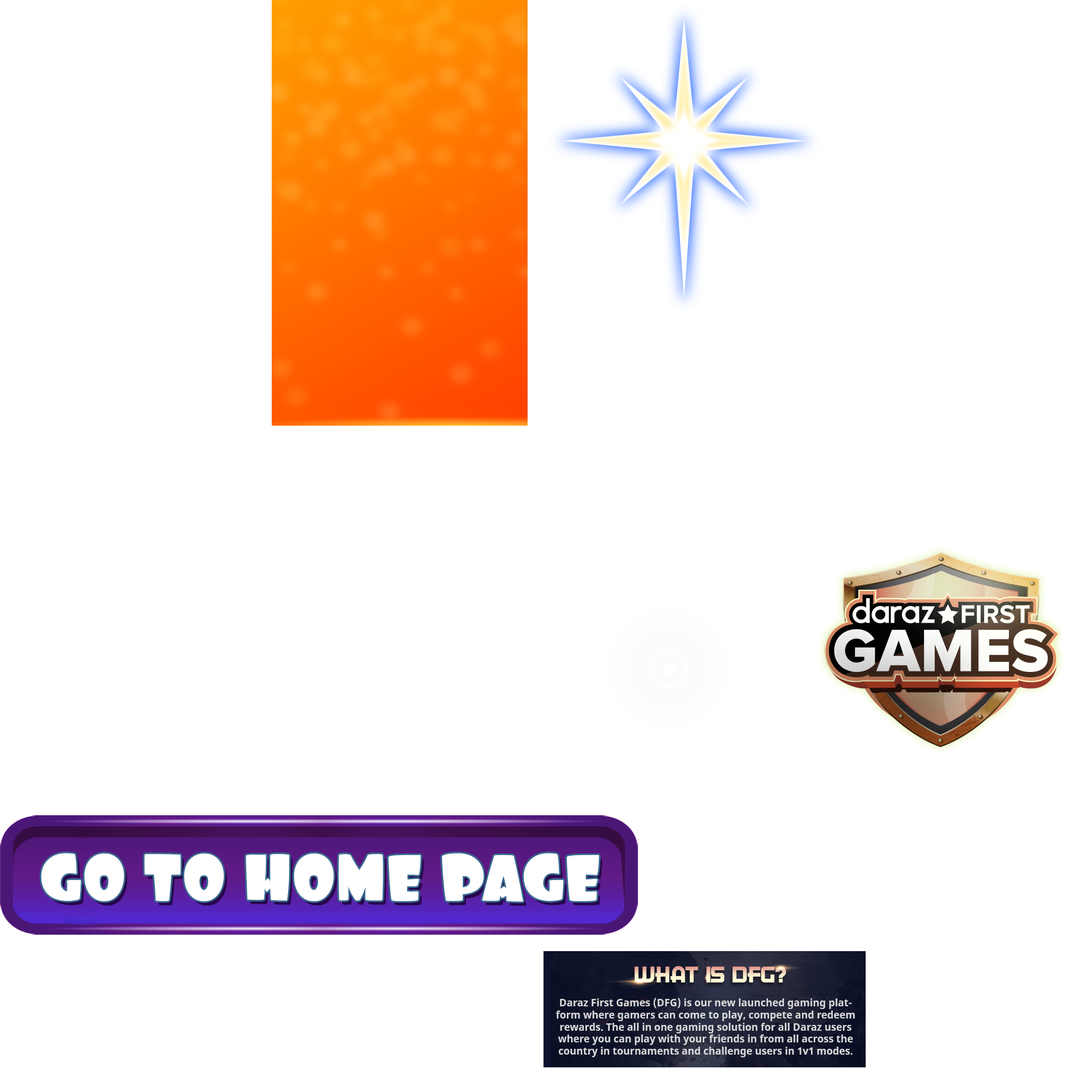
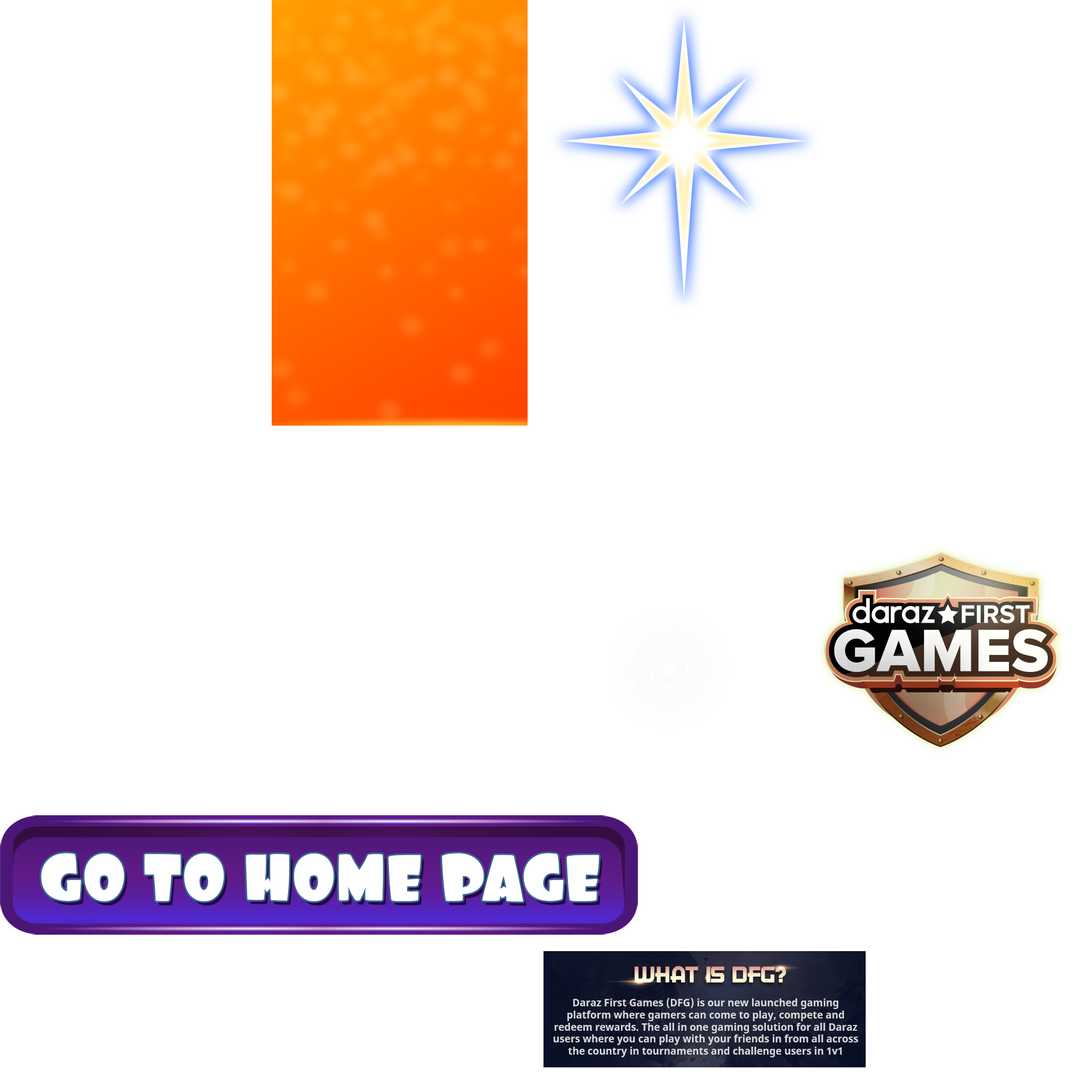
Add files via upload

Changed region(s): [[0.5, 0.9062, 0.7812, 0.9688]]

diff --git a/data.js b/data.js
@@ -1,1 +1,1 @@
-{"project":["DFG","GameLayout",[[0,false,true,true,true,true,true,true,true,false],[1,true,false,false,false,false,false,false,false,false],[2,false,false,false,false,false,false,false,false,false],[3,true,false,false,false,false,false,false,false,false],[4,true,false,false,false,false,false,false,false,false],[5,false,true,true,true,true,true,true,true,true],[6,false,true,true,true,true,true,true,true,false],[7,false,true,true,true,false,false,false,false,false],[8,true,false,false,false,false,false,false,false,false],[10,false,true,true,false,false,true,true,true,false]],[["QuestionText",0,false,[],0,0,null,null,[],false,false,4518277622100844,[],null,0],["AnswerChoice1",0,false,[],0,0,null,null,[],false,false,8097939386274228,[],null,1],["AnswerChoice2",0,false,[],0,0,null,null,[],false,false,1284034875746508,[],null,2],["AnswerChoice3",0,false,[],0,0,null,null,[],false,false,5650092959726911,[],null,3],["AnswerChoice4",0,false,[],0,0,null,null,[],false,false,2928925355067956,[],null,4],["AJAX",1,false,[],0,0,null,null,[],false,false,3142276251277157,[],null,5,[]],["QuestionsArray",2,false,[],0,0,null,null,[],true,false,9516239658900232,[],null,6],["Touch",3,false,[],0,0,null,null,[],false,false,2503946099207293,[],null,7,[true]],["FeedbackText",0,false,[],0,0,null,null,[],false,false,7569139299136867,[],null,8],["ScoreText",0,false,[],0,0,null,null,[],false,false,6712561442429151,[],null,9],["TitleText",0,false,[],0,0,null,null,[],false,false,3720140241284106,[],null,10],["PlayButton",0,false,[],0,0,null,null,[],false,false,6287041695498634,[],null,11],["WebStorage",4,false,[],0,0,null,null,[],false,false,6898698917139665,[],null,12,[]],["QuitButton",0,false,[],0,0,null,null,[],false,false,9188488704761638,[],null,13],["RestartButton",0,false,[],0,0,null,null,[],false,false,4572325326948228,[],null,14],["TimerText",0,false,[],0,0,null,null,[],false,false,7539547688433571,[],null,15],["Used_Array",2,false,[],0,0,null,null,[],true,false,6122280981655879,[],null,16],["TiledBackground",5,false,[],0,0,["images/tiledbackground-sheet0.png",243203,0,0,0,750,520],null,[],false,false,1595894532411715,[],null,17],["HomeButton",0,false,[],0,0,null,null,[],false,false,7584440032732816,[],null,18],["AboutText",0,false,[],0,0,null,null,[],false,false,843728309340976,[],null,19],["AboutButton",0,false,[],0,0,null,null,[],false,false,2097394952559154,[],null,20],["Sprite11",6,false,[],0,0,null,[["Animation 1",5,false,1,0,false,896215700482606,[["images/shared-0-sheet1.png",1007919,513,1,480,800,1,0.5,0.5,[],[-0.5,-0.5,0,-0.5,0.49750000000000005,-0.5,0.49750000000000005,0,0.49750000000000005,0.498,0,0.498,-0.5,0.498,-0.5,0],0]]]],[],false,false,438298318963117,[],null,21],["play_again",6,false,[],0,0,null,[["Animation 1",5,false,1,0,false,555261687588107,[["images/shared-0-sheet4.png",216551,0,0,2398,908,1,0.5,0.5,[],[-0.4692715704536453,-0.3861878241231249,0,-0.375,0.4529850499548804,-0.3884064120615625,0.4519143262968248,-0.005506607929515406,0.43296866069449047,0.37845243406011253,-0.0004594878448089257,0.3821693944125356,-0.43646326784117895,0.35636187475603653,-0.4535598838483454,0.04746835443038],0]]]],[],false,false,954949145761662,[],null,22],["Sprite18",6,false,[],0,0,null,[["Animation 1",5,false,1,0,false,854930910042661,[["images/shared-0-sheet5.png",191106,0,0,2398,907,1,0.5,0.5,[],[-0.4680177029244801,-0.41560551099590126,-0.014595496246872341,-0.3969465648854962,0.46380468266566266,-0.3914338857234234,0.45424488485027825,-0.002545931979430538,0.4329637096774194,0.40839694656488545,-0.026670831203422063,0.38507115985086315,-0.44556451612903225,0.351149246319971,-0.45871223331270683,-0.005512679162072764],0]]]],[],false,false,813556513466683,[],null,23],["Sprite12",6,false,[],0,0,null,[["Animation 1",5,false,1,0,false,529983111501422,[["images/shared-0-sheet0.png",780203,0,0,1755,2762,1,0.5,0.5,[],[-0.3740740740740741,-0.41998551774076753,0,-0.499637943519189,0.3769230769230769,-0.4221578566256336,0.48233618233618236,0,0.4150997150997151,0.44605358435916,0,0.4800868935553947,-0.41225071225071225,0.443881245474294,-0.48518518518518516,0],0]]]],[],false,false,999843354679462,[],null,24],["NameInput",7,false,[],0,0,null,null,[],false,false,202878234040816,[],null,25],["EmailInput",7,false,[],0,0,null,null,[],false,false,613355963009687,[],null,26],["PhoneInput",7,false,[],0,0,null,null,[],false,false,292376280471300,[],null,27],["NameText",0,false,[],0,0,null,null,[],false,false,210124808294686,[],null,28],["EmailText",0,false,[],0,0,null,null,[],false,false,874808008014424,[],null,29],["Text2",0,false,[],0,0,null,null,[],false,false,792127707754524,[],null,30],["Confirmation",0,false,[],0,0,null,null,[],false,false,631951479112777,[],null,31],["Display",0,false,[],0,0,null,null,[],false,false,871159654206974,[],null,32],["Discore",0,false,[],0,0,null,null,[],false,false,918485593256501,[],null,33],["final",0,false,[],0,0,null,null,[],false,false,316678347694548,[],null,34],["replay",6,false,[],0,0,null,[["Default",0,false,1,0,false,100170254521513,[["images/shared-0-sheet2.png",52168,1,129,112,114,1,0.5,0.5,[],[-0.392857,-0.398113,0,-0.5,0.38888900000000004,-0.39434,0.49603200000000003,-0.0018870000000000275,0.36904800000000004,0.37547200000000003,0,0.458491,-0.373016,0.37924500000000005,-0.5,-0.0018870000000000275],0],["images/shared-0-sheet2.png",52168,129,129,112,114,0,0.5,0.503448,[],[-0.392857,-0.401561,0,-0.503448,0.38888900000000004,-0.39778800000000003,0.49603200000000003,-0.005335000000000034,0.36904800000000004,0.372024,0,0.496552,-0.373016,0.37579700000000005,-0.5,-0.005335000000000034],0]]]],[],false,false,490992913071519,[],null,35],["home",6,false,[],0,0,null,[["Default",0,false,1,0,false,128290549251425,[["images/shared-0-sheet2.png",52168,385,1,112,114,1,0.503356,0.503268,[],[-0.39094,-0.39617700000000006,-0.0033560000000000256,-0.49300780000000005,0.380313,-0.39245300000000005,0.48601799999999995,-0.005130000000000023,0.364653,0.3710199999999999,-0.0033560000000000256,0.45295299999999994,-0.37136500000000006,0.3710199999999999,-0.49664459000000005,-0.005130000000000023],0],["images/shared-0-sheet2.png",52168,385,129,112,114,1,0.496403,0.510345,[],[-0.395683,-0.40156100000000006,0,-0.49967490000000003,0.39168700000000006,-0.39778800000000003,0.4996,-0.00533500000000009,0.37569900000000006,0.37579699999999994,0,0.458815,-0.3757,0.37579699999999994,-0.496403,-0.00533500000000009],0]]]],[],false,false,641156735966612,[],null,36],["submit_button",6,false,[],0,0,null,[["Animation 1",5,false,1,0,false,977084801593165,[["images/shared-0-sheet6.png",137908,0,0,2398,675,1,0.5,0.5,[],[-0.44901969578519296,-0.3825703117236619,0.0013958391251968072,-0.37724694011416127,0.4467417914571751,-0.3649311967857597,0.4539877337036752,0.022303671863006524,0.42552216261972386,0.3961479613545822,-0.03143963682399609,0.4027617590849416,-0.4492566483980335,0.3564581297683892,-0.45370370370370366,-0.06329113924050628],0]]]],[],false,false,923482690419155,[],null,37],["order_id",7,false,[],0,0,null,null,[],false,false,621718125092766,[],null,38],["Logo",6,false,[],0,0,null,[["Default",5,false,1,0,false,667837162231201,[["images/shared-0-sheet2.png",52168,1,1,265,114,1,0.5,0.5,[],[],0]]]],[],false,false,613208379886605,[],null,39],["Button",6,false,[],0,0,null,[["Default",5,false,1,0,false,309847669610005,[["images/shared-0-sheet1.png",1007919,1,1537,1200,223,1,0.5,0.5,[],[],0]]]],[],false,false,218252877803666,[],null,40],["Browser",8,false,[],0,0,null,null,[],false,false,900297979952433,[],null,41,[]],["Logo2",6,false,[],1,0,null,[["Default",3,true,1,0,false,954243533207160,[["images/shared-0-sheet1.png",1007919,1537,1025,475,398,1,0.5,0.5,[],[],0]]]],[["Flash",9,672900166276547,42]],false,false,532227498758063,[],null,43],["ShadowLight",10,false,[],0,0,null,null,[],false,false,115499102406973,[],null,44],["ShadowLight2",10,false,[],0,0,null,null,[],false,false,482143284130522,[],null,45],["ShadowLight3",10,false,[],0,0,null,null,[],false,false,578552697768383,[],null,46],["Spot3",6,false,[],2,0,null,[["Default",5,false,1,0,false,305511464621645,[["images/shared-0-sheet3.png",947,1,1,31,30,1,0.516129,0.5,[],[],0]]]],[["Sine",11,171735893617645,47],["Sine2",11,222285552518088,48]],false,false,320591578144610,[],null,49],["Spot1",6,false,[],2,0,null,[["Default",5,false,1,0,false,192811710234832,[["images/shared-0-sheet3.png",947,1,1,31,30,1,0.516129,0.5,[],[],0]]]],[["Sine",11,539097621597316,47],["Sine2",11,207955956235774,48]],false,false,877752808051358,[],null,50],["Spot2",6,false,[],2,0,null,[["Default",5,false,1,0,false,782940110396212,[["images/shared-0-sheet3.png",947,1,33,31,30,1,0.516129,0.5,[],[],0]]]],[["Sine",11,292785587036113,47],["Sine2",11,931114232550601,48]],false,false,891217899348177,[],null,51],["Mask1",6,false,[],0,0,null,[["Default",5,false,1,0,false,760411287364323,[["images/shared-0-sheet1.png",1007919,1025,1025,470,470,1,0.5,0.5,[],[-0.170213,-0.170213,0,-0.24042599999999997,0.17021299999999995,-0.170213,0.24042600000000003,0,0.17021299999999995,0.17021299999999995,0,0.24042600000000003,-0.170213,0.17021299999999995,-0.24042599999999997,0],0]]]],[],false,false,996551815526696,[],null,52],["Mask3",6,false,[],0,1,null,[["Default",5,false,1,0,false,951577848853897,[["images/shared-0-sheet1.png",1007919,1025,1025,470,470,1,0.5,0.5,[],[-0.170213,-0.170213,0,-0.24042599999999997,0.17021299999999995,-0.170213,0.24042600000000003,0,0.17021299999999995,0.17021299999999995,0,0.24042600000000003,-0.170213,0.17021299999999995,-0.24042599999999997,0],0]]]],[],false,false,141386997881912,[["tint","Tint"]],null,53],["Mask2",6,false,[],0,1,null,[["Default",5,false,1,0,false,549154511438920,[["images/shared-0-sheet1.png",1007919,1025,1025,470,470,1,0.5,0.5,[],[-0.170213,-0.170213,0,-0.24042599999999997,0.17021299999999995,-0.170213,0.24042600000000003,0,0.17021299999999995,0.17021299999999995,0,0.24042600000000003,-0.170213,0.17021299999999995,-0.24042599999999997,0],0]]]],[],false,false,448714077544375,[["tint","Tint"]],null,54],["twinkleMask",6,false,[],0,0,null,[["Default",5,false,1,0,false,188542440915037,[["images/shared-0-sheet2.png",52168,257,129,100,100,1,0.5,0.5,[],[],0]]]],[],false,false,880765207028125,[],null,55],["shinytransparentshiningstar",6,false,[],1,0,null,[["Default",5,false,1,0,false,329809314739827,[["images/shared-0-sheet1.png",1007919,1025,1,528,594,1,0.5,0.5,[],[],0]]]],[["Fade",12,950049830604098,56]],false,false,187136045300956,[],null,57],["WhatIsDFG_D_M",6,false,[],0,0,null,[["Default",5,false,1,0,false,160496360266753,[["images/shared-0-sheet1.png",1007919,1025,1793,605,217,1,0.5,0.5,[],[],0]]]],[],false,false,938239157078957,[],null,58]],[],[["GameLayout",750,520,false,"Game Event Sheet",2665726338741146,[["Background",0,1052050580886238,true,[255,255,255],true,1,1,1,false,false,1,0,0,[[[-1,0,0,750,520,0,0,1,0,0,0,0,[]],17,21,[],[],[true,0,0,0,1,1,0]],[[358,120,0,64.31197054099768,65.28081807291916,0,0,1,0.5,0.5,0,0,[[[0.9294117647058824,0.8235294117647058,0.5882352941176471]]]],51,28,[],[],[true,"Default",0,true]],[[1612.0500187485563,168.70981965150492,0,16.188807492322432,18.06408407537533,0,0,1,0.5,0.5,0,0,[]],53,29,[],[[0,0,1,true,true]],[true,"Default",0,true]],[[373,392,0,605,217,0,0,1,0.5,0.5,0,0,[]],54,12,[],[],[true,"Default",0,true]]],[],0],["Game",1,3067122856562082,true,[255,255,255],true,1,1,1,false,false,1,0,0,[[[-538,798,0,445.39521132865616,128.21856339859684,0,0,1,0,0,0,0,[]],0,0,[],[],["Q1",false,"Tahoma",24,0,false,false,[1,1,1],1,1,0,true,0]],[[-290,723,0,441,100,0,0,1,0,0,0,0,[]],1,1,[],[],["A1",false,"Tahoma",16,0,false,false,[0.25098039215686274,0,0.5019607843137255],0,0,0,true,0]],[[-475,832,0,441,100,0,0,1,0,0,0,0,[]],2,2,[],[],["A2",false,"Tahoma",16,0,false,false,[0.25098039215686274,0,0.5019607843137255],0,0,0,true,0]],[[-194,1132,0,441,100,0,0,1,0,0,0,0,[]],3,3,[],[],["A3",false,"Tahoma",16,0,false,false,[0.25098039215686274,0,0.5019607843137255],0,0,0,true,0]],[[-1507,965,0,1000,100,0,0,1,0,0,0,0,[]],4,4,[],[],["A4",false,"Arial",35.25,0,false,false,[0,0,0],0,0,0,true,0]],[[-712,719,0,409.86583170593764,68.94939224959698,0,0,1,0,0,0,0,[]],8,9,[],[],["Feedback Text",false,"Arial",35.25,0,false,false,[0,0,0],1,1,0,false,0]],[[-518,77,0,351,100,0,0,1,0,0,0,0,[]],9,10,[],[],["Score: 0",false,"Arial",36,0,true,false,[0,0,0],0,0,0,true,0]],[[-435,-31,0,370,120,0,0,1,0,0,0,0,[]],15,19,[],[],["20",false,"Tahoma",36,0,true,false,[1,1,1],0,0,0,true,0]],[[376,129,0,173.47815280547223,145.27875524890024,0,0,1,0.5,0.5,0,0,[]],42,16,[],[[]],[true,"Default",0,true]],[[989,270,0,50,50,0,0,1,0.5,0.5,0,0,[]],43,17,[],[],[0,15,[0,0,0],0,""]],[[1011,183,0,50,50,0,0,1,0.5,0.5,0,0,[]],44,18,[],[],[0,15,[0,0,0],0,""]],[[1047,122,0,50,50,0,0,1,0.5,0.5,0,0,[]],45,22,[],[],[0,15,[0,0,0],0,""]],[[-5,-422,0,31,30,0,0,1,0.516129,0.5,0,0,[]],47,23,[],[[0,0,3,0,0,0,80,0,true],[1,0,4,0,0,0,80,0,true]],[true,"Default",0,true]],[[376,120,0,79,63,0,0,1,0.516129,0.5,0,0,[]],48,24,[],[[1,0,3.3,0,0,0,40,0,true],[0,0,4.1,0,0,0,40,0,true]],[true,"Default",0,true]],[[2272,300,0,31,30,0,0,1,0.516129,0.5,0,0,[]],46,25,[],[[0,0,3.3,0,0,0,80,0,true],[1,0,3.1,0,0,0,35,0,true]],[true,"Default",0,true]],[[-379,614,0,193,196,0,0,1,0.5,0.5,0,0,[]],49,26,[],[],[true,"Default",0,true]],[[2206,-275,0,56,50,0,0,1,0.5,0.5,0,0,[[[0,1,1]]]],50,27,[],[],[true,"Default",0,true]]],[],0]],[[null,6,6,[],[],[10,1,1]],[null,16,20,[],[],[10,1,1]]],[]]],[["Game Event Sheet",[[0,0,false,null,151648127791761,1,[],[]],[0,0,false,null,622679585886181,2,[[-1,13,null,0,false,false,false,439689378041659,null]],[[43,14,null,891925269083813,0,null,[[0,[20,47,15,false,null]],[0,[20,47,16,false,null]]]],[49,17,null,559066881158424,0,null,[[4,47],[7,[1,0]]]],[44,14,null,432819138162029,0,null,[[0,[20,48,15,false,null]],[0,[20,48,16,false,null]]]],[51,17,null,152096671197441,0,null,[[4,48],[7,[1,0]]]],[45,14,null,271017365489539,0,null,[[0,[20,46,15,false,null]],[0,[20,46,16,false,null]]]],[50,17,null,158245552025527,0,null,[[4,46],[7,[1,0]]]]]],[0,0,false,null,107204066862315,3,[[-1,18,null,0,false,false,false,786817800923660,null,[[0,[1,0.2]]]]],[[-1,19,null,615028643097771,0,null,[[4,53],[5,[1,0]],[0,[19,20,[[1,0],[19,21]]]],[0,[19,20,[[1,0],[19,22]]]]]]]]]]],[],"media/",false,750,520,4,true,true,true,"1.0.0.0",true,false,3,0,30,false,true,1,true,false,[],"icons/",[],true,"3blxdu3b2a86u","fonts/",[],"high-performance",[],"standard","vsync",""]}
+{"project":["DFG","GameLayout",[[0,false,true,true,true,true,true,true,true,false],[1,true,false,false,false,false,false,false,false,false],[2,false,false,false,false,false,false,false,false,false],[3,true,false,false,false,false,false,false,false,false],[4,true,false,false,false,false,false,false,false,false],[5,false,true,true,true,true,true,true,true,true],[6,false,true,true,true,true,true,true,true,false],[7,false,true,true,true,false,false,false,false,false],[8,true,false,false,false,false,false,false,false,false],[10,false,true,true,false,false,true,true,true,false]],[["QuestionText",0,false,[],0,0,null,null,[],false,false,4518277622100844,[],null,0],["AnswerChoice1",0,false,[],0,0,null,null,[],false,false,8097939386274228,[],null,1],["AnswerChoice2",0,false,[],0,0,null,null,[],false,false,1284034875746508,[],null,2],["AnswerChoice3",0,false,[],0,0,null,null,[],false,false,5650092959726911,[],null,3],["AnswerChoice4",0,false,[],0,0,null,null,[],false,false,2928925355067956,[],null,4],["AJAX",1,false,[],0,0,null,null,[],false,false,3142276251277157,[],null,5,[]],["QuestionsArray",2,false,[],0,0,null,null,[],true,false,9516239658900232,[],null,6],["Touch",3,false,[],0,0,null,null,[],false,false,2503946099207293,[],null,7,[true]],["FeedbackText",0,false,[],0,0,null,null,[],false,false,7569139299136867,[],null,8],["ScoreText",0,false,[],0,0,null,null,[],false,false,6712561442429151,[],null,9],["TitleText",0,false,[],0,0,null,null,[],false,false,3720140241284106,[],null,10],["PlayButton",0,false,[],0,0,null,null,[],false,false,6287041695498634,[],null,11],["WebStorage",4,false,[],0,0,null,null,[],false,false,6898698917139665,[],null,12,[]],["QuitButton",0,false,[],0,0,null,null,[],false,false,9188488704761638,[],null,13],["RestartButton",0,false,[],0,0,null,null,[],false,false,4572325326948228,[],null,14],["TimerText",0,false,[],0,0,null,null,[],false,false,7539547688433571,[],null,15],["Used_Array",2,false,[],0,0,null,null,[],true,false,6122280981655879,[],null,16],["TiledBackground",5,false,[],0,0,["images/tiledbackground-sheet0.png",311319,0,0,0,750,510],null,[],false,false,1595894532411715,[],null,17],["HomeButton",0,false,[],0,0,null,null,[],false,false,7584440032732816,[],null,18],["AboutText",0,false,[],0,0,null,null,[],false,false,843728309340976,[],null,19],["AboutButton",0,false,[],0,0,null,null,[],false,false,2097394952559154,[],null,20],["Sprite11",6,false,[],0,0,null,[["Animation 1",5,false,1,0,false,896215700482606,[["images/shared-0-sheet1.png",1006916,513,1,480,800,1,0.5,0.5,[],[-0.5,-0.5,0,-0.5,0.49750000000000005,-0.5,0.49750000000000005,0,0.49750000000000005,0.498,0,0.498,-0.5,0.498,-0.5,0],0]]]],[],false,false,438298318963117,[],null,21],["play_again",6,false,[],0,0,null,[["Animation 1",5,false,1,0,false,555261687588107,[["images/shared-0-sheet4.png",216551,0,0,2398,908,1,0.5,0.5,[],[-0.4692715704536453,-0.3861878241231249,0,-0.375,0.4529850499548804,-0.3884064120615625,0.4519143262968248,-0.005506607929515406,0.43296866069449047,0.37845243406011253,-0.0004594878448089257,0.3821693944125356,-0.43646326784117895,0.35636187475603653,-0.4535598838483454,0.04746835443038],0]]]],[],false,false,954949145761662,[],null,22],["Sprite18",6,false,[],0,0,null,[["Animation 1",5,false,1,0,false,854930910042661,[["images/shared-0-sheet5.png",191106,0,0,2398,907,1,0.5,0.5,[],[-0.4680177029244801,-0.41560551099590126,-0.014595496246872341,-0.3969465648854962,0.46380468266566266,-0.3914338857234234,0.45424488485027825,-0.002545931979430538,0.4329637096774194,0.40839694656488545,-0.026670831203422063,0.38507115985086315,-0.44556451612903225,0.351149246319971,-0.45871223331270683,-0.005512679162072764],0]]]],[],false,false,813556513466683,[],null,23],["Sprite12",6,false,[],0,0,null,[["Animation 1",5,false,1,0,false,529983111501422,[["images/shared-0-sheet0.png",780203,0,0,1755,2762,1,0.5,0.5,[],[-0.3740740740740741,-0.41998551774076753,0,-0.499637943519189,0.3769230769230769,-0.4221578566256336,0.48233618233618236,0,0.4150997150997151,0.44605358435916,0,0.4800868935553947,-0.41225071225071225,0.443881245474294,-0.48518518518518516,0],0]]]],[],false,false,999843354679462,[],null,24],["NameInput",7,false,[],0,0,null,null,[],false,false,202878234040816,[],null,25],["EmailInput",7,false,[],0,0,null,null,[],false,false,613355963009687,[],null,26],["PhoneInput",7,false,[],0,0,null,null,[],false,false,292376280471300,[],null,27],["NameText",0,false,[],0,0,null,null,[],false,false,210124808294686,[],null,28],["EmailText",0,false,[],0,0,null,null,[],false,false,874808008014424,[],null,29],["Text2",0,false,[],0,0,null,null,[],false,false,792127707754524,[],null,30],["Confirmation",0,false,[],0,0,null,null,[],false,false,631951479112777,[],null,31],["Display",0,false,[],0,0,null,null,[],false,false,871159654206974,[],null,32],["Discore",0,false,[],0,0,null,null,[],false,false,918485593256501,[],null,33],["final",0,false,[],0,0,null,null,[],false,false,316678347694548,[],null,34],["replay",6,false,[],0,0,null,[["Default",0,false,1,0,false,100170254521513,[["images/shared-0-sheet2.png",52339,129,129,112,114,1,0.5,0.5,[],[-0.392857,-0.398113,0,-0.5,0.38888900000000004,-0.39434,0.49603200000000003,-0.0018870000000000275,0.36904800000000004,0.37547200000000003,0,0.458491,-0.373016,0.37924500000000005,-0.5,-0.0018870000000000275],0],["images/shared-0-sheet2.png",52339,1,129,112,114,0,0.5,0.503448,[],[-0.392857,-0.401561,0,-0.503448,0.38888900000000004,-0.39778800000000003,0.49603200000000003,-0.005335000000000034,0.36904800000000004,0.372024,0,0.496552,-0.373016,0.37579700000000005,-0.5,-0.005335000000000034],0]]]],[],false,false,490992913071519,[],null,35],["home",6,false,[],0,0,null,[["Default",0,false,1,0,false,128290549251425,[["images/shared-0-sheet2.png",52339,385,129,112,114,1,0.503356,0.503268,[],[-0.39094,-0.39617700000000006,-0.0033560000000000256,-0.49300780000000005,0.380313,-0.39245300000000005,0.48601799999999995,-0.005130000000000023,0.364653,0.3710199999999999,-0.0033560000000000256,0.45295299999999994,-0.37136500000000006,0.3710199999999999,-0.49664459000000005,-0.005130000000000023],0],["images/shared-0-sheet2.png",52339,385,1,112,114,1,0.496403,0.510345,[],[-0.395683,-0.40156100000000006,0,-0.49967490000000003,0.39168700000000006,-0.39778800000000003,0.4996,-0.00533500000000009,0.37569900000000006,0.37579699999999994,0,0.458815,-0.3757,0.37579699999999994,-0.496403,-0.00533500000000009],0]]]],[],false,false,641156735966612,[],null,36],["submit_button",6,false,[],0,0,null,[["Animation 1",5,false,1,0,false,977084801593165,[["images/shared-0-sheet6.png",137908,0,0,2398,675,1,0.5,0.5,[],[-0.44901969578519296,-0.3825703117236619,0.0013958391251968072,-0.37724694011416127,0.4467417914571751,-0.3649311967857597,0.4539877337036752,0.022303671863006524,0.42552216261972386,0.3961479613545822,-0.03143963682399609,0.4027617590849416,-0.4492566483980335,0.3564581297683892,-0.45370370370370366,-0.06329113924050628],0]]]],[],false,false,923482690419155,[],null,37],["order_id",7,false,[],0,0,null,null,[],false,false,621718125092766,[],null,38],["Logo",6,false,[],0,0,null,[["Default",5,false,1,0,false,667837162231201,[["images/shared-0-sheet2.png",52339,1,1,265,114,1,0.5,0.5,[],[],0]]]],[],false,false,613208379886605,[],null,39],["Button",6,false,[],0,0,null,[["Default",5,false,1,0,false,309847669610005,[["images/shared-0-sheet1.png",1006916,1,1537,1200,223,1,0.5,0.5,[],[],0]]]],[],false,false,218252877803666,[],null,40],["Browser",8,false,[],0,0,null,null,[],false,false,900297979952433,[],null,41,[]],["Logo2",6,false,[],1,0,null,[["Default",3,true,1,0,false,954243533207160,[["images/shared-0-sheet1.png",1006916,1537,1025,475,398,1,0.5,0.5,[],[],0]]]],[["Flash",9,672900166276547,42]],false,false,532227498758063,[],null,43],["ShadowLight",10,false,[],0,0,null,null,[],false,false,115499102406973,[],null,44],["ShadowLight2",10,false,[],0,0,null,null,[],false,false,482143284130522,[],null,45],["ShadowLight3",10,false,[],0,0,null,null,[],false,false,578552697768383,[],null,46],["Spot3",6,false,[],2,0,null,[["Default",5,false,1,0,false,305511464621645,[["images/shared-0-sheet3.png",947,1,1,31,30,1,0.516129,0.5,[],[],0]]]],[["Sine",11,171735893617645,47],["Sine2",11,222285552518088,48]],false,false,320591578144610,[],null,49],["Spot1",6,false,[],2,0,null,[["Default",5,false,1,0,false,192811710234832,[["images/shared-0-sheet3.png",947,1,1,31,30,1,0.516129,0.5,[],[],0]]]],[["Sine",11,539097621597316,47],["Sine2",11,207955956235774,48]],false,false,877752808051358,[],null,50],["Spot2",6,false,[],2,0,null,[["Default",5,false,1,0,false,782940110396212,[["images/shared-0-sheet3.png",947,1,33,31,30,1,0.516129,0.5,[],[],0]]]],[["Sine",11,292785587036113,47],["Sine2",11,931114232550601,48]],false,false,891217899348177,[],null,51],["Mask1",6,false,[],0,0,null,[["Default",5,false,1,0,false,760411287364323,[["images/shared-0-sheet1.png",1006916,1025,1025,470,470,1,0.5,0.5,[],[-0.170213,-0.170213,0,-0.24042599999999997,0.17021299999999995,-0.170213,0.24042600000000003,0,0.17021299999999995,0.17021299999999995,0,0.24042600000000003,-0.170213,0.17021299999999995,-0.24042599999999997,0],0]]]],[],false,false,996551815526696,[],null,52],["Mask3",6,false,[],0,1,null,[["Default",5,false,1,0,false,951577848853897,[["images/shared-0-sheet1.png",1006916,1025,1025,470,470,1,0.5,0.5,[],[-0.170213,-0.170213,0,-0.24042599999999997,0.17021299999999995,-0.170213,0.24042600000000003,0,0.17021299999999995,0.17021299999999995,0,0.24042600000000003,-0.170213,0.17021299999999995,-0.24042599999999997,0],0]]]],[],false,false,141386997881912,[["tint","Tint"]],null,53],["Mask2",6,false,[],0,1,null,[["Default",5,false,1,0,false,549154511438920,[["images/shared-0-sheet1.png",1006916,1025,1025,470,470,1,0.5,0.5,[],[-0.170213,-0.170213,0,-0.24042599999999997,0.17021299999999995,-0.170213,0.24042600000000003,0,0.17021299999999995,0.17021299999999995,0,0.24042600000000003,-0.170213,0.17021299999999995,-0.24042599999999997,0],0]]]],[],false,false,448714077544375,[["tint","Tint"]],null,54],["twinkleMask",6,false,[],0,0,null,[["Default",5,false,1,0,false,188542440915037,[["images/shared-0-sheet2.png",52339,257,129,100,100,1,0.5,0.5,[],[],0]]]],[],false,false,880765207028125,[],null,55],["shinytransparentshiningstar",6,false,[],1,0,null,[["Default",5,false,1,0,false,329809314739827,[["images/shared-0-sheet1.png",1006916,1025,1,528,594,1,0.5,0.5,[],[],0]]]],[["Fade",12,950049830604098,56]],false,false,187136045300956,[],null,57],["WhatIsDFG_D_M",6,false,[],0,0,null,[["Default",5,false,1,0,false,160496360266753,[["images/shared-0-sheet1.png",1006916,1025,1793,605,217,1,0.5,0.5,[],[-0.5,-0.5,0,-0.5,0.4983471074380166,-0.5,0.4983471074380166,0,0.4983471074380166,0.49539170506912444,0,0.49539170506912444,-0.5,0.49539170506912444,-0.5,0],0]]]],[],false,false,938239157078957,[],null,58]],[],[["GameLayout",750,510,false,"Game Event Sheet",2665726338741146,[["Background",0,1052050580886238,true,[255,255,255],true,1,1,1,false,false,1,0,0,[[[-1,0,0,750,510,0,0,1,0,0,0,0,[]],17,21,[],[],[true,0,0,0,1,1,0]],[[358,120,0,64.31197054099768,65.28081807291916,0,0,1,0.5,0.5,0,0,[[[0.9294117647058824,0.8235294117647058,0.5882352941176471]]]],51,28,[],[],[true,"Default",0,true]],[[1612.0500187485563,168.70981965150492,0,16.188807492322432,18.06408407537533,0,0,1,0.5,0.5,0,0,[]],53,29,[],[[0,0,1,true,true]],[true,"Default",0,true]]],[],0],["Game",1,3067122856562082,true,[255,255,255],true,1,1,1,false,false,1,0,0,[[[-538,798,0,445.39521132865616,128.21856339859684,0,0,1,0,0,0,0,[]],0,0,[],[],["Q1",false,"Tahoma",24,0,false,false,[1,1,1],1,1,0,true,0]],[[-290,723,0,441,100,0,0,1,0,0,0,0,[]],1,1,[],[],["A1",false,"Tahoma",16,0,false,false,[0.25098039215686274,0,0.5019607843137255],0,0,0,true,0]],[[-475,832,0,441,100,0,0,1,0,0,0,0,[]],2,2,[],[],["A2",false,"Tahoma",16,0,false,false,[0.25098039215686274,0,0.5019607843137255],0,0,0,true,0]],[[-194,1132,0,441,100,0,0,1,0,0,0,0,[]],3,3,[],[],["A3",false,"Tahoma",16,0,false,false,[0.25098039215686274,0,0.5019607843137255],0,0,0,true,0]],[[-1507,965,0,1000,100,0,0,1,0,0,0,0,[]],4,4,[],[],["A4",false,"Arial",35.25,0,false,false,[0,0,0],0,0,0,true,0]],[[-712,719,0,409.86583170593764,68.94939224959698,0,0,1,0,0,0,0,[]],8,9,[],[],["Feedback Text",false,"Arial",35.25,0,false,false,[0,0,0],1,1,0,false,0]],[[-518,77,0,351,100,0,0,1,0,0,0,0,[]],9,10,[],[],["Score: 0",false,"Arial",36,0,true,false,[0,0,0],0,0,0,true,0]],[[-435,-31,0,370,120,0,0,1,0,0,0,0,[]],15,19,[],[],["20",false,"Tahoma",36,0,true,false,[1,1,1],0,0,0,true,0]],[[376,129,0,173.47815280547223,145.27875524890024,0,0,1,0.5,0.5,0,0,[]],42,16,[],[[]],[true,"Default",0,true]],[[989,270,0,50,50,0,0,1,0.5,0.5,0,0,[]],43,17,[],[],[0,15,[0,0,0],0,""]],[[1011,183,0,50,50,0,0,1,0.5,0.5,0,0,[]],44,18,[],[],[0,15,[0,0,0],0,""]],[[1047,122,0,50,50,0,0,1,0.5,0.5,0,0,[]],45,22,[],[],[0,15,[0,0,0],0,""]],[[-5,-422,0,31,30,0,0,1,0.516129,0.5,0,0,[]],47,23,[],[[0,0,3,0,0,0,80,0,true],[1,0,4,0,0,0,80,0,true]],[true,"Default",0,true]],[[376,120,0,79,63,0,0,1,0.516129,0.5,0,0,[]],48,24,[],[[1,0,3.3,0,0,0,40,0,true],[0,0,4.1,0,0,0,40,0,true]],[true,"Default",0,true]],[[2272,300,0,31,30,0,0,1,0.516129,0.5,0,0,[]],46,25,[],[[0,0,3.3,0,0,0,80,0,true],[1,0,3.1,0,0,0,35,0,true]],[true,"Default",0,true]],[[-379,614,0,193,196,0,0,1,0.5,0.5,0,0,[]],49,26,[],[],[true,"Default",0,true]],[[2206,-275,0,56,50,0,0,1,0.5,0.5,0,0,[[[0,1,1]]]],50,27,[],[],[true,"Default",0,true]]],[],0]],[[null,6,6,[],[],[10,1,1]],[null,16,20,[],[],[10,1,1]]],[]]],[["Game Event Sheet",[[0,0,false,null,151648127791761,1,[],[]],[0,0,false,null,622679585886181,2,[[-1,13,null,0,false,false,false,439689378041659,null]],[[43,14,null,891925269083813,0,null,[[0,[20,47,15,false,null]],[0,[20,47,16,false,null]]]],[49,17,null,559066881158424,0,null,[[4,47],[7,[1,0]]]],[44,14,null,432819138162029,0,null,[[0,[20,48,15,false,null]],[0,[20,48,16,false,null]]]],[51,17,null,152096671197441,0,null,[[4,48],[7,[1,0]]]],[45,14,null,271017365489539,0,null,[[0,[20,46,15,false,null]],[0,[20,46,16,false,null]]]],[50,17,null,158245552025527,0,null,[[4,46],[7,[1,0]]]]]],[0,0,false,null,107204066862315,3,[[-1,18,null,0,false,false,false,786817800923660,null,[[0,[1,0.2]]]]],[[-1,19,null,615028643097771,0,null,[[4,53],[5,[1,0]],[0,[19,20,[[1,0],[19,21]]]],[0,[19,20,[[1,0],[19,22]]]]]]]]]]],[],"media/",false,750,510,4,true,true,true,"1.0.0.0",true,false,3,0,30,false,true,1,true,false,[],"icons/",[],true,"3blxdu3b2a86u","fonts/",[],"high-performance",[],"standard","vsync",""]}

diff --git a/offline.js b/offline.js
@@ -1,1 +1,1 @@
-{"version":1588345597315,"fileList":["penumbra.png","c2runtime.js","data.js","start.js","style.css","offlineclient.js","images/tiledbackground-sheet0.png","images/shared-0-sheet0.png","images/shared-0-sheet2.png","images/shared-0-sheet4.png","images/shared-0-sheet5.png","images/shared-0-sheet6.png","images/shared-0-sheet3.png","images/shared-0-sheet1.png","questions.txt","icons/icon-32.png","icons/loading-logo.png","icons/icon-114.png","icons/icon-16.png","icons/icon-128.png","icons/icon-256.png","register-sw.js"]}
+{"version":1588413220108,"fileList":["penumbra.png","c2runtime.js","data.js","start.js","style.css","offlineclient.js","images/tiledbackground-sheet0.png","images/shared-0-sheet0.png","images/shared-0-sheet2.png","images/shared-0-sheet4.png","images/shared-0-sheet5.png","images/shared-0-sheet6.png","images/shared-0-sheet3.png","images/shared-0-sheet1.png","questions.txt","icons/icon-32.png","icons/loading-logo.png","icons/icon-16.png","icons/icon-114.png","icons/icon-128.png","icons/icon-256.png","register-sw.js"]}

diff --git a/style.css b/style.css
@@ -3,7 +3,7 @@ html, body {
 	margin: 0;
 	overflow: hidden;
 	
-	background: #ffffff;
+	background: #181818;
 	color: white;
 }
 
